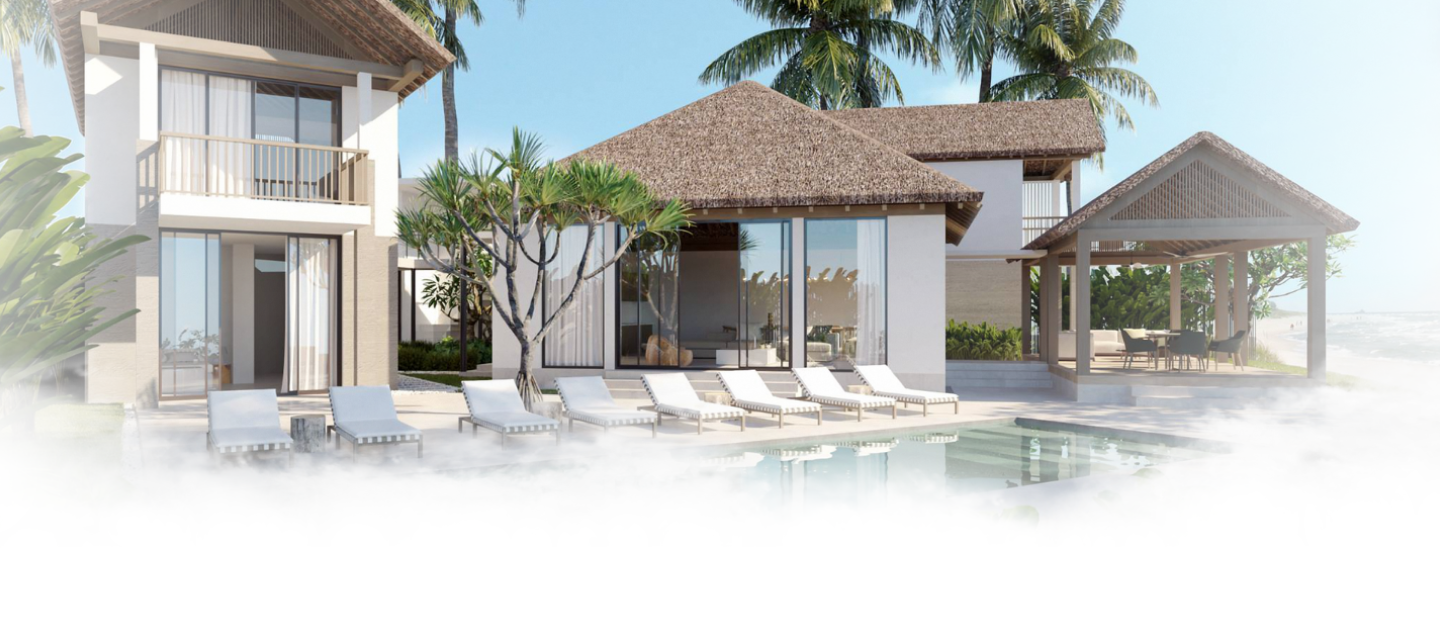
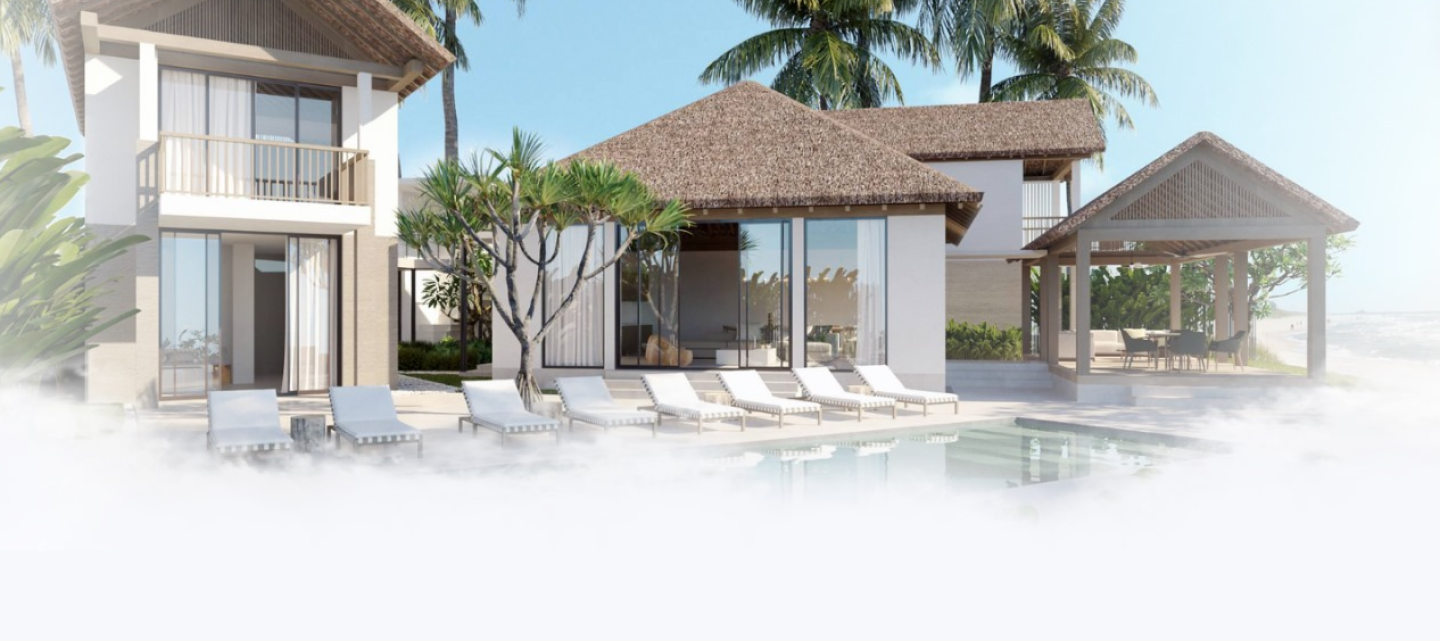
changes layout

Changed region(s): [[0.6562, 0.6552, 0.75, 0.78], [0.5, 0.5616, 0.5312, 0.5928], [0.2812, 0.4368, 0.3125, 0.468]]

diff --git a/css/landingpage.css b/css/landingpage.css
@@ -148,14 +148,14 @@ input[type="checkbox"] {
 
 .hero {
     width: 100%;
-    height: 50vh;
+    height: 80vh;
     display: flex;
     justify-content: center;
     align-items: center;
     background-image: url(../image/gambarwebsite1.png);
     background-size: cover;
     background-position: center;
-    color: white;
+    color: #F7F8FC;
     position: relative;
 }
 
@@ -165,7 +165,7 @@ input[type="checkbox"] {
     width: 100%;
     height: 100%;
     position: absolute;
-    background: linear-gradient(0deg, rgb(255, 255, 255)9%, rgba(255, 255, 255, 0)60%);
+    background: linear-gradient(0deg, #F7F8FC 9%, rgba(255, 255, 255, 0)60%);
 }
 
 .Client-Say {
@@ -188,6 +188,7 @@ input[type="checkbox"] {
     height: 4rem;
     color: black;
     z-index: 3;
+    margin-bottom: 60px;
 }
 
 .search i {
